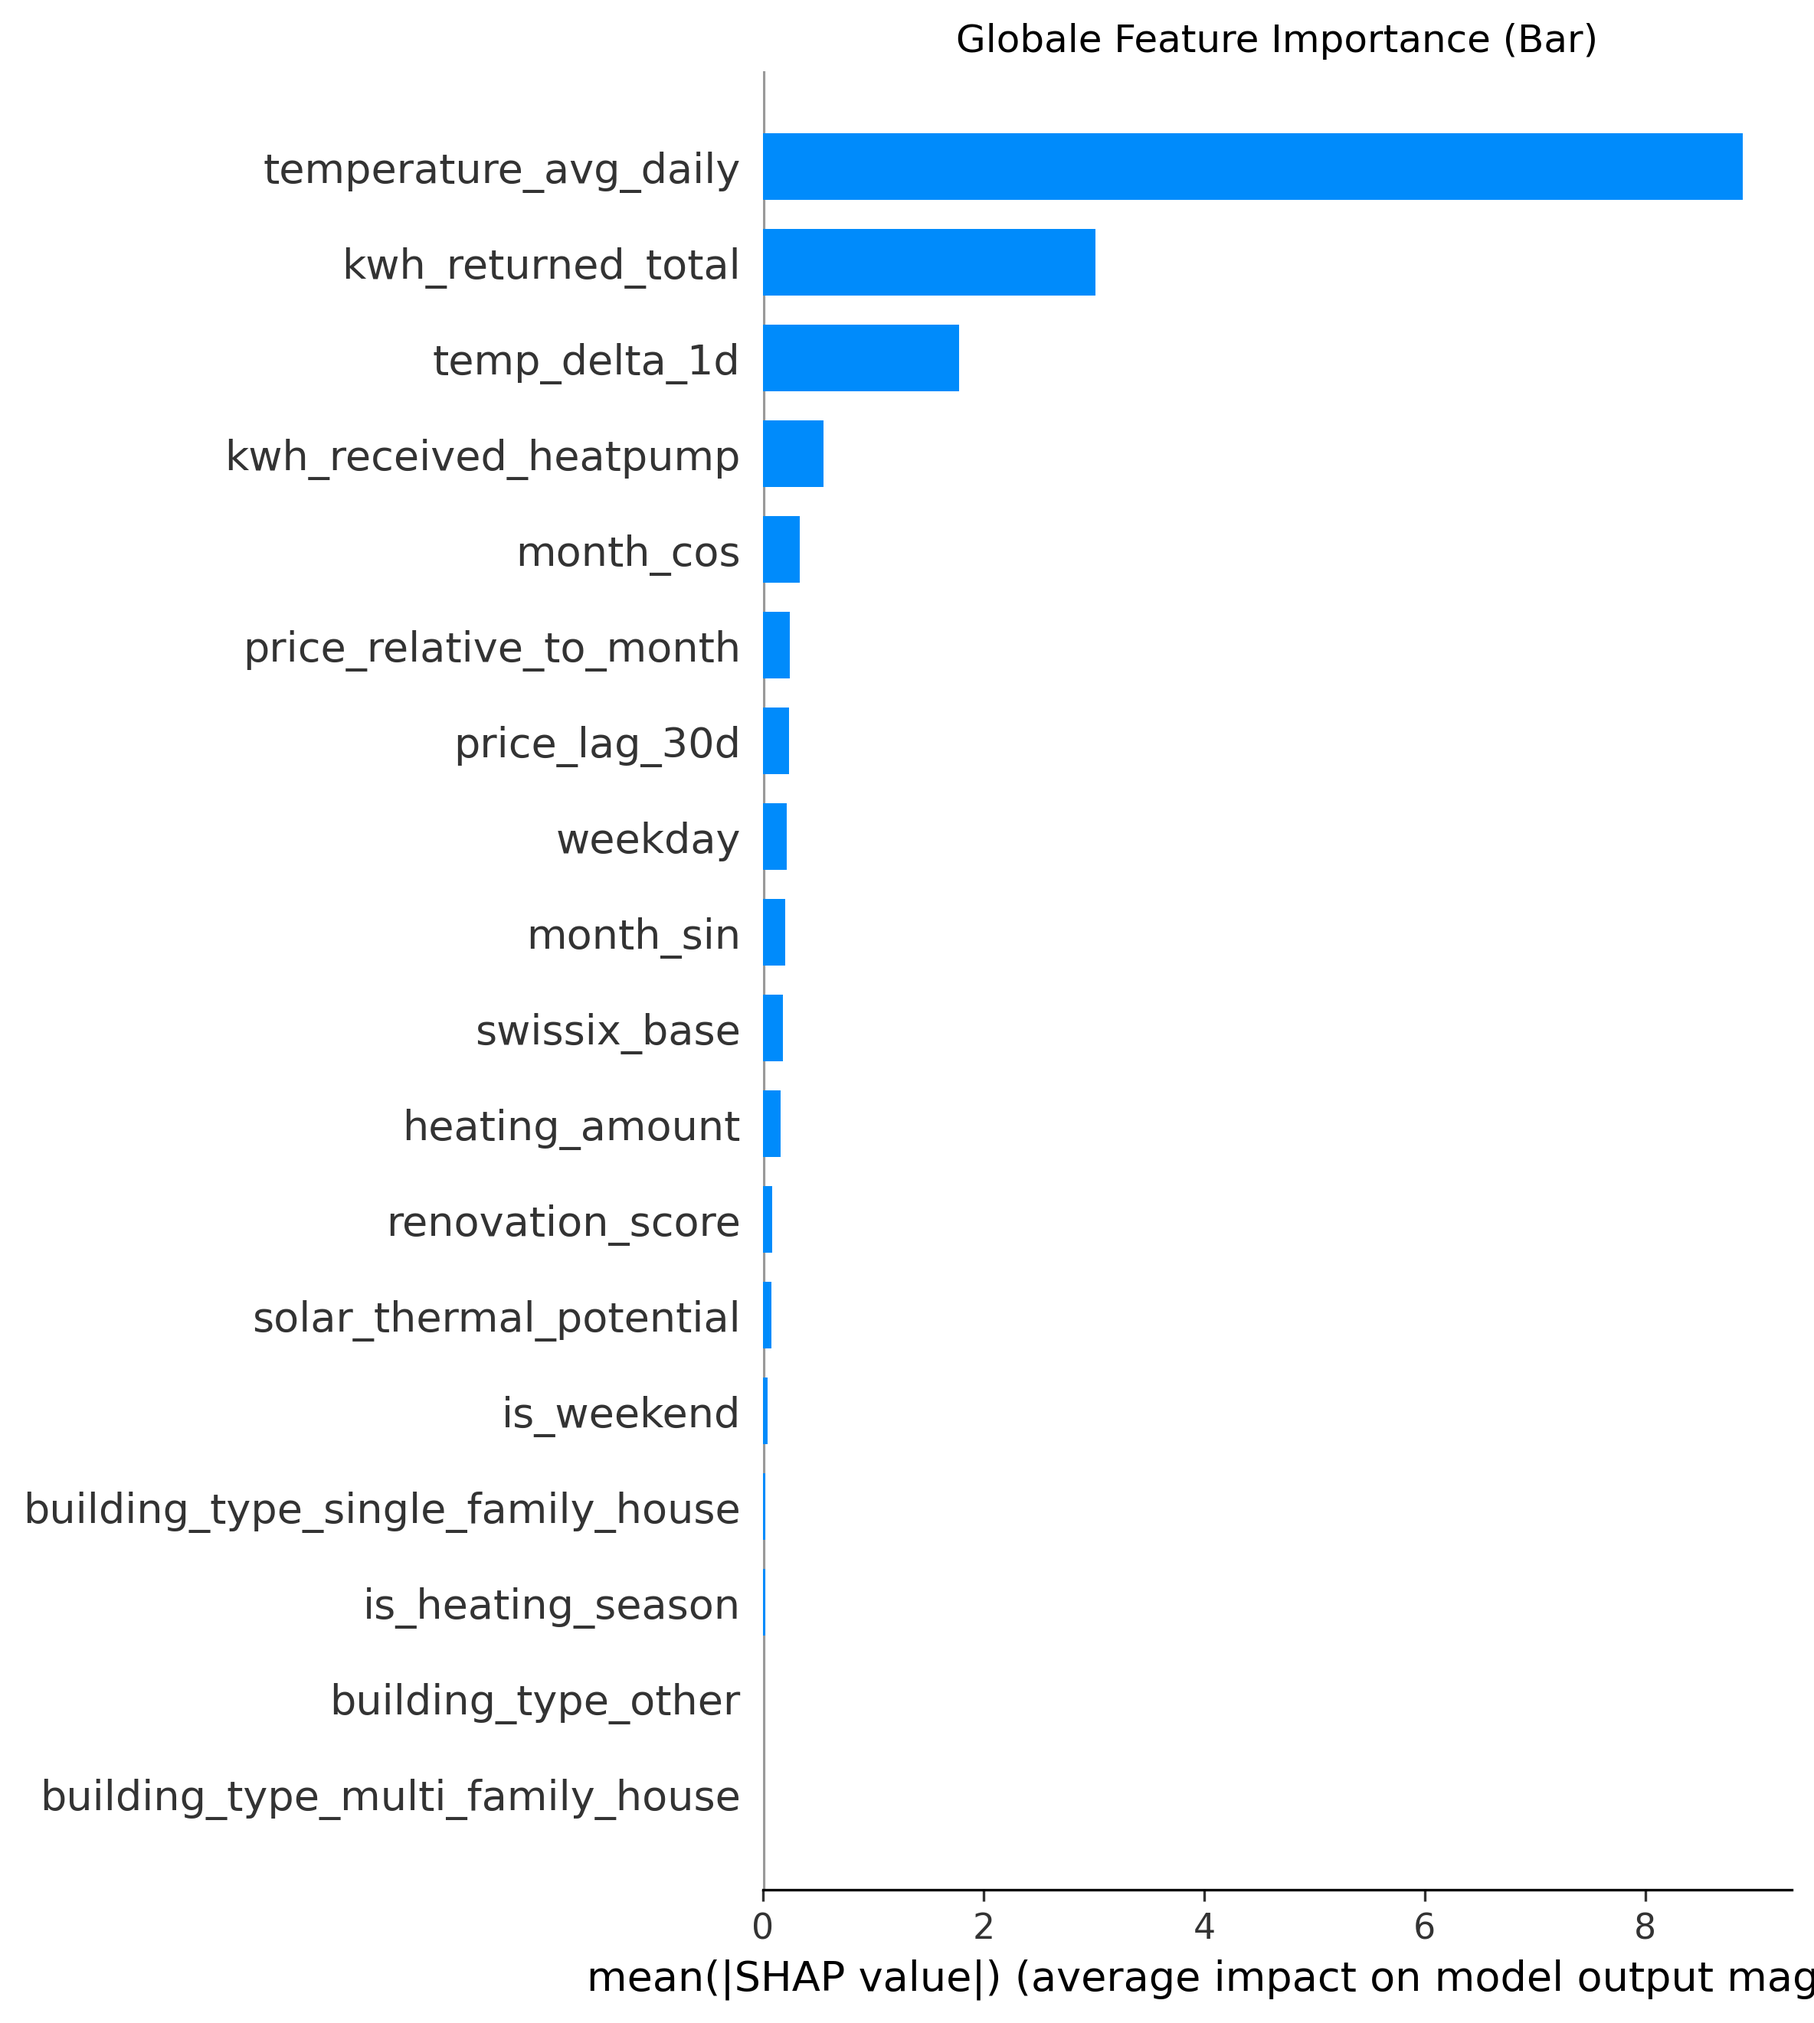
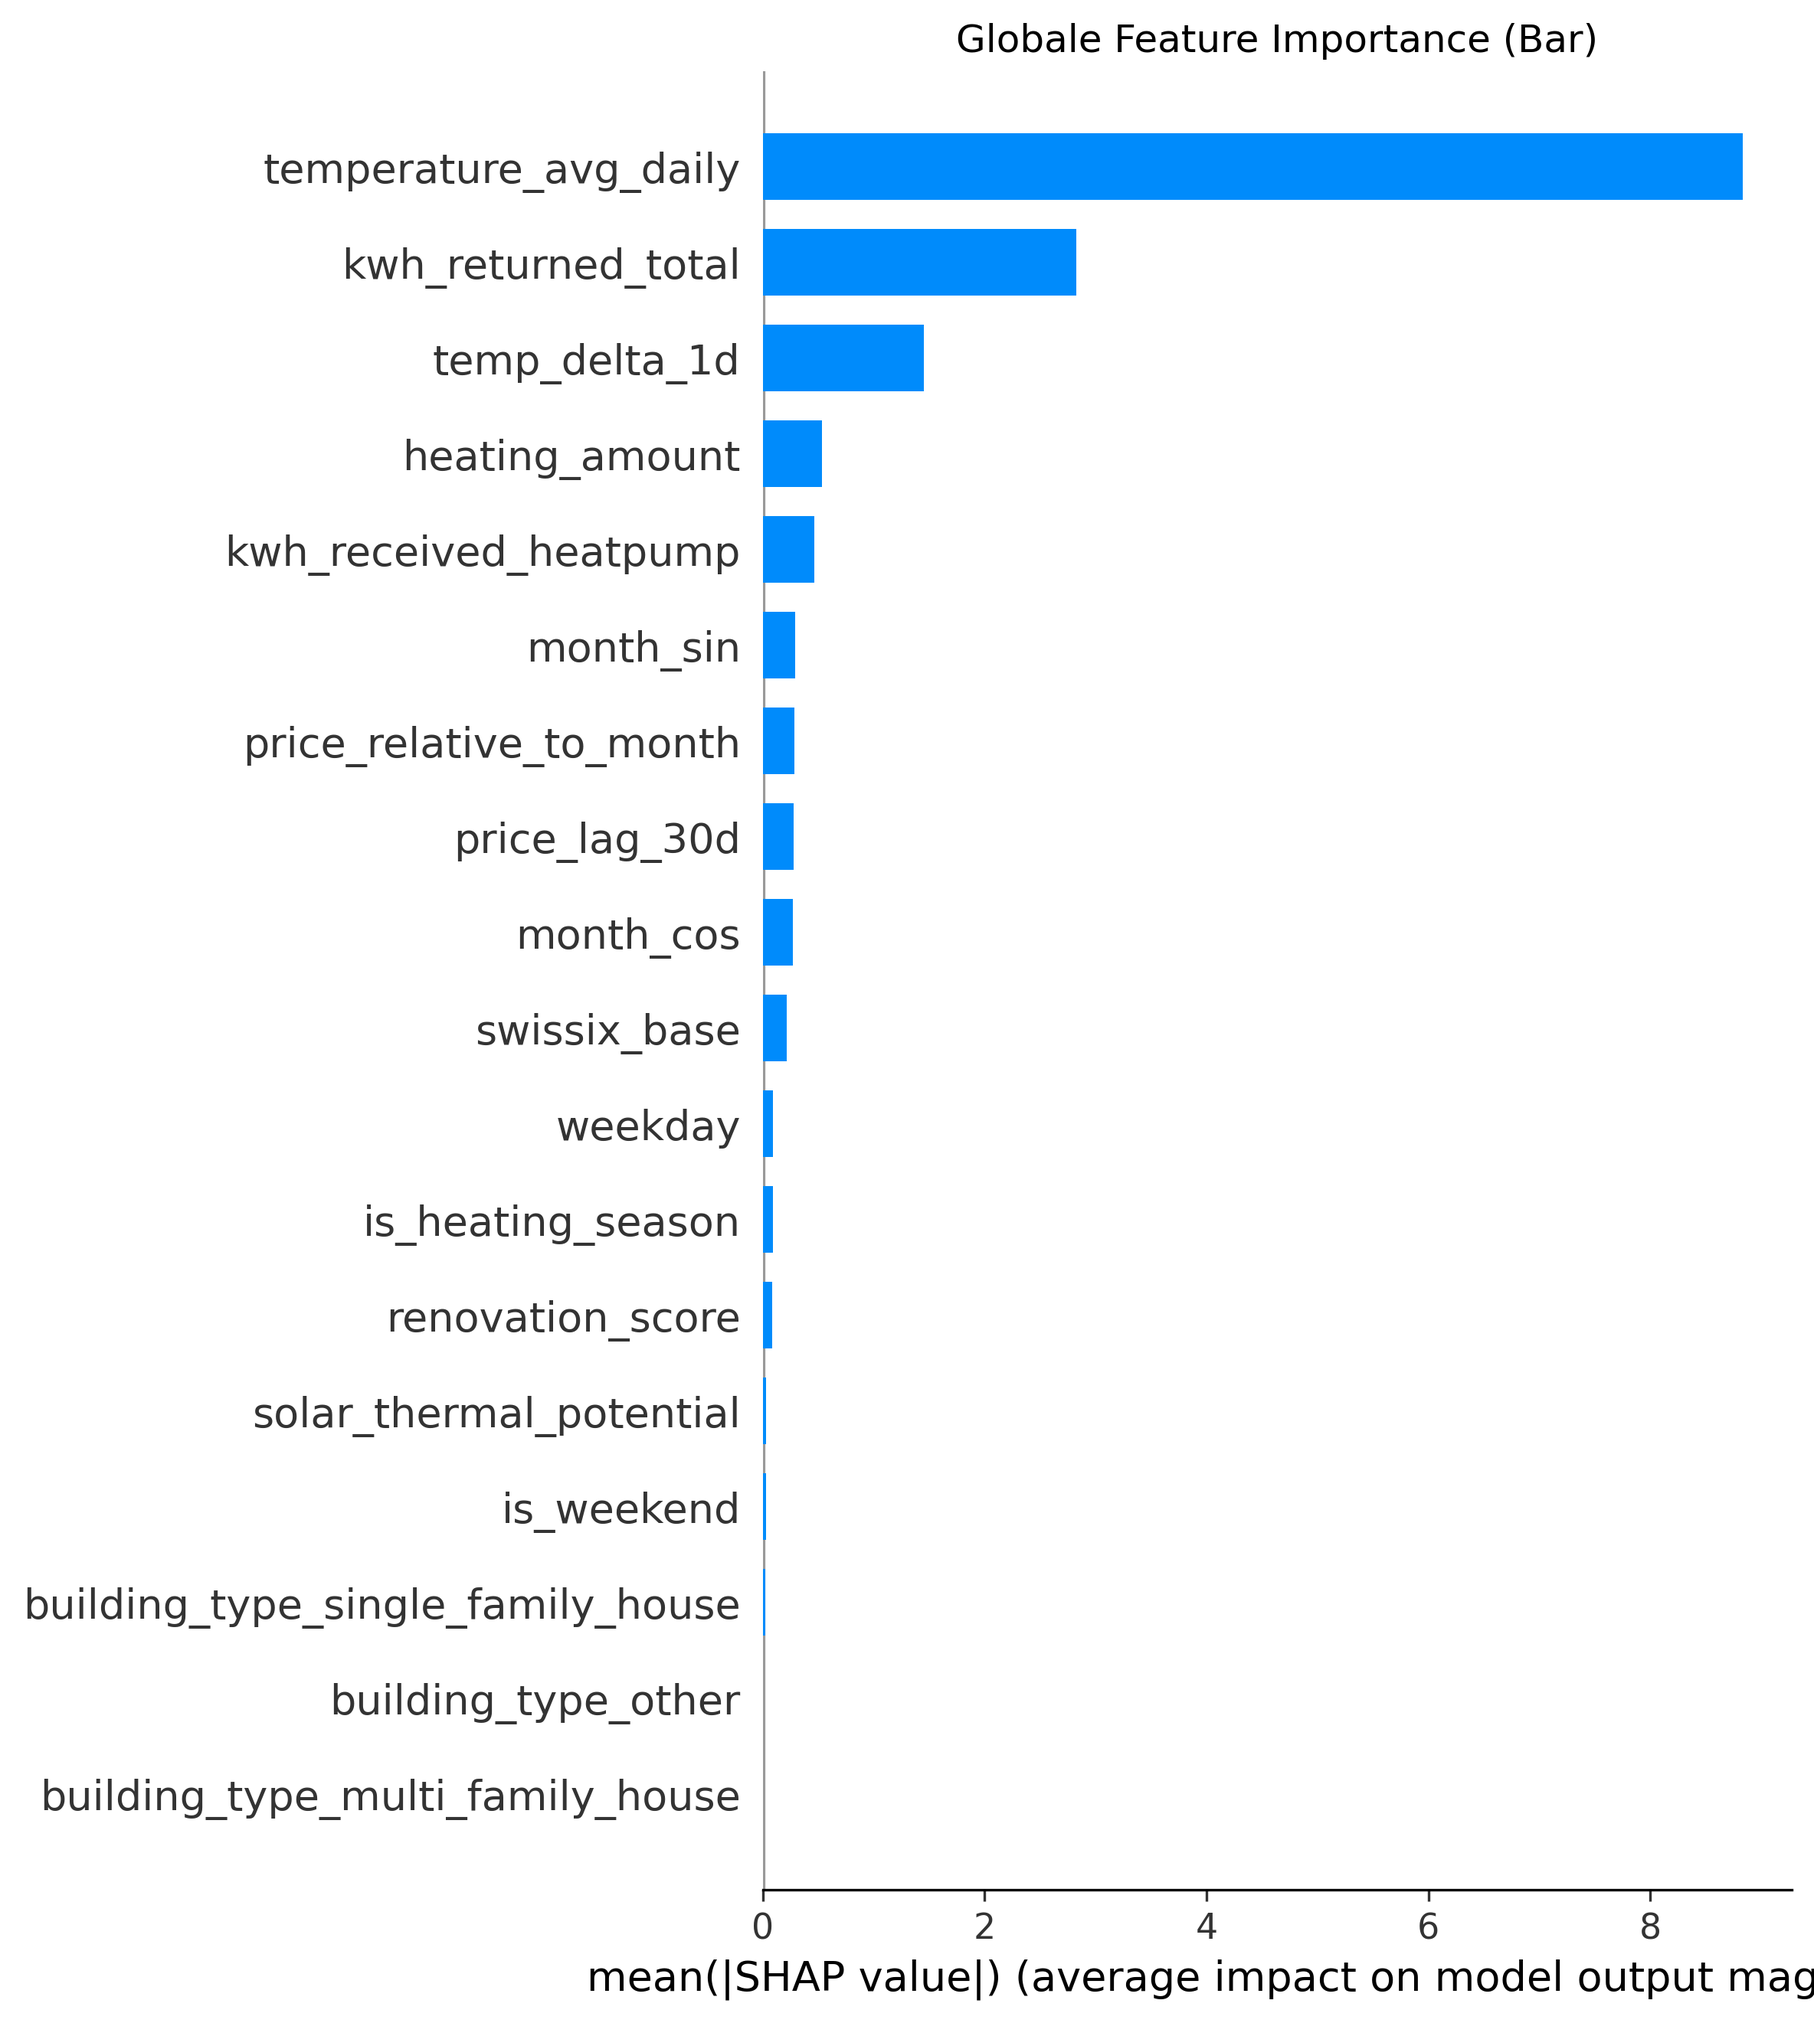
Feature Erstellung dokumentiert und Modell ausgewählt

diff --git a/03_src/app.py b/03_src/app.py
@@ -21,7 +21,7 @@ from config import (
     fill_median_list, fill_inter_list,
     fill_string_float, fill_string_boolean, 
     fill_string_integer, fill_unbekannt_list,
-    target_col, feature_cols
+    target_col, feature_cols, feature_cols_cleaned
 )
 from data_combine import join_data
 from data_loader import smartmeter_load, household_load, house_info_load, weather_load, load_price_data
@@ -92,7 +92,8 @@ data_combined_filled = (
     .pipe(apply_interpolation, fill_inter_list)
 )
 
-# Direkter CHeck in der Pipline on die Inputaiton erfolgreich war
+# ---  Direkter Check in der Pipline --- 
+
 compare_imputation(
     df_before=data_combined,
     df_after=data_combined_filled,
@@ -107,7 +108,7 @@ compare_imputation(
 )
 
 
-# Zwischenspeichern Raw-Combined
+# ---  Zwischenspeichern Raw-Combined --- Notwendig um Pipline Entwicklung zu beschleunigen
 output_path_temp = root_dir / "02_data" / "temp" / "combined_data.csv"
 output_path_temp.parent.mkdir(parents=True, exist_ok=True)
 data_combined_filled.write_csv(str(output_path_temp), separator=";")
@@ -180,21 +181,23 @@ feature_importance_analyse(
     filename="shap_plot.png"
 )
 
+#--Datensatz nach der Analyse reduzieren
+
+
+X_train_red, X_test_red, y_train_red, y_test_red = train_test_split(
+    df_ml, 
+    feature_cols=feature_cols_cleaned, 
+    target_col=target_col
+)
+
+#--- Korrelations-Check auf dem reduzierten Set
+X_train_final, X_test_final, final_features = correlated_features_drop(
+    X_train_red, 
+    X_test_red,
+    feautre_cols=feature_cols_cleaned
+)
+
+
 #---Modellvergleich um das beste Modell zu finden
 comparison = compare_models(X_train_cleaned, X_test_cleaned, y_train, y_test)
 print(comparison)
-
-#---Modell Tuning auf Basis des Output des Modellchecks
-
-best_rf = tune_random_forest(X_train_cleaned, y_train)
-tscv = TimeSeriesSplit(n_splits=5)
-scores = cross_val_score(best_rf, X_train_cleaned, y_train, cv=tscv, scoring='r2')
-print(f"CV R² Scores: {scores}")
-print(f"Mean CV R²: {scores.mean():.4f}")
-
-# ---Finale Validierung mit dem getunten Modell
-y_pred_final = best_rf.predict(X_test_cleaned)
-final_r2 = r2_score(y_test, y_pred_final)
-final_mae = mean_absolute_error(y_test, y_pred_final)
-
-plot_final_prediction(y_test, y_pred_final)

diff --git a/03_src/config.py b/03_src/config.py
@@ -117,6 +117,19 @@ feature_cols = [
     "temp_inertia_ema_3d", "temp_delta_1d", "month_sin", "month_cos"
 ]
 
+feature_cols_cleaned = [
+    "temperature_avg_daily",
+    "kwh_returned_total",
+    "temp_delta_1d",
+    "kwh_received_heatpump",
+    "price_lag_30d",
+    "price_relative_to_month",
+    "swissix_base",
+    "weekday",
+    "month_sin",
+    "month_cos"
+]
+
 class Schema(pa.DataFrameModel):
     # Hier müssen die echten Spaltennamen aus deinem Dataframe stehen:
     timestamp: pl.Datetime(time_unit="us", time_zone="UTC")

diff --git a/01_business_understanding/feature_enginering_doku.md b/01_business_understanding/feature_enginering_doku.md
@@ -1,0 +1,86 @@
+# 📚 Feature Engineering
+
+Diese Dokumentation beschreibt die Vorgehensweise beim Feature Engineering 
+
+## 📋 Feature Erstellung
+
+In der Pipeline werden mehrere Features für die Vorhersage des Energieverbrauchs generiert. Die Beschreibung der einzelnen Features folgt der Reihenfolge im features.py-File.
+
+Wochentage
+Auf Basis des Datums werden numerische Werte generiert, die die Wochentage abbilden. So erhält beispielsweise der Sonntag den Wert 7, der Samstag den Wert 6 usw.
+
+Wochenende
+Die Wochentage dienen als Grundlage, um einen Wochenend-Indikator zu erzeugen. Tage, die auf ein Wochenende fallen, erhalten den Wert 1, während Werktage den Wert 0 erhalten.
+
+Heizperiode
+Die Heizperiode in Mitteleuropa dauert typischerweise von Oktober bis März. Entsprechend wird ein Dummy-Feature erstellt, das in diesen Monaten den Wert 1 und in den übrigen Monaten den Wert 0 annimmt.
+
+Renovation Index
+Der Renovationsindex summiert mehrere Dummy-Variablen, die angeben, ob Renovierungen an bestimmten Gebäudeteilen (z. B. Fenster, Dach oder Wände) durchgeführt wurden.
+
+Heizbedarf
+Der Heizbedarf wird aus der beheizten Fläche und der Anzahl der Bewohner eines Gebäudes berechnet.
+
+Preisfeatures
+Auf Basis der Day-Ahead-Strompreise werden Lag-Features sowie gleitende Durchschnittswerte für 30 und 90 Tage berechnet. Zusätzlich werden Abweichungen des aktuellen Tagespreises von diesen Durchschnittswerten bestimmt.
+
+Solarpotenzial
+Das Potenzial zur Solarstromerzeugung wird durch die Multiplikation der PV-Anlagengröße mit der täglichen Sonnenscheindauer approximiert.
+
+Thermische Dynamik
+Um die thermische Trägheit von Gebäuden sowie kurzfristige Temperaturveränderungen abzubilden, werden zwei zusätzliche Temperaturfeatures berechnet:
+temp_inertia_ema_3d: ein exponentiell gewichteter gleitender Durchschnitt der Temperatur über drei Tage, der das thermische Gedächtnis eines Gebäudes approximiert.
+temp_delta_1d: die tägliche Veränderung der Durchschnittstemperatur im Vergleich zum Vortag.
+
+Zyklische Features
+Um saisonale Effekte besser abzubilden, werden zyklische Transformationen (Sinus und Cosinus) für Monatswerte berechnet.
+
+Gebäudetypen
+Für die Gebäudetypen werden Dummy-Variablen (One-Hot-Encoding) erstellt. Die Kategorie „Unbekannt“ dient dabei als Referenzkategorie und wird nicht explizit als Feature kodiert.
+
+Weitere verwendete Variablen
+
+Zusätzlich zu den erzeugten Features werden weitere Variablen direkt aus dem Datensatz verwendet. Dazu zählen:
+kwh_received_heatpump – Stromverbrauch der Wärmepumpe
+kwh_returned_total – Gesamtmenge des eingespeisten Stroms
+temperature_avg_daily – durchschnittliche Tagestemperatur
+swissix_base – Day-Ahead-Strompreis
+
+## 🛠 Feature Selektion, Importance und Validierung
+
+1. Korrelationen der Features 
+
+ **temp_inertia_ema_3d** weist eine hohe Korrelation mit anderen Variablen auf und kann somit als redundant betrachtet werden kann. Auf Grundlage dieser Analyse wurde das Feature aus dem Datensatz entfernt.
+
+Die Identifikation stark korrelierter Features erfolgt mithilfe der  **def correlated_features_drop**, die eine Korrelationsmatrix des Trainingsdatensatzes berechnet und Variablen entfernt, deren Korrelation einen Schwellenwert von **0.90** überschreitet.
+
+2. Importance und Validierung der Features
+
+![alt text](image.png)
+
+Um den Einfluss der Features zu analyiseren wird ein Random Forst mOdell als Basis verwendet, sodass die benötigen plots erzeugt werdne könnne. 
+So sieht man anhand des Importnace Plots recht deutlich, die wichgsten Features: 1. temperature_avg_daily, 2. kwh_returned_total, 3. temp_delta_1d
+
+Alle weiteren Features haben nur einen geringen Einfluss auf den Stromvebrauch.
+
+![alt text](image-1.png)
+
+Der Beeswarm-Plot ergänzt die globale Wichtigkeit um die Richtung und Stärke der Effekte. Beim Feature temperature_avg_daily zeigt sich ein deutliches Muster: Niedrige Temperaturen (blaue Punkte) führen zu stark positiven SHAP-Werten – die Kälte erhöht den Verbrauch erwartungsgemäß massiv.
+
+Für den heating_amount wird ersichtlich, dass der Gesamtverbrauch bei hohen Werten (rote Punkte) tendenziell steigt. Da die meisten Punkte jedoch auf der vertikalen Null-Linie liegen, hat das Feature für den Großteil der Daten keinen Einfluss auf die Vorhersage. Dies ist auf die identifizierten der Missing-Werte zurückzuführen, wodurch das Feature in seiner aktuellen Form für das Modell kaum Informationsgehalt bietet.
+
+Features die einen kleinen aber erwartebaren Effekt haben sind folgede:
+kwh_received_heatpump – kleiner aber plausibler Effekt, behalten
+price_lag_30d & price_relative_to_month – Preissignale mit minimalem Effekt, können bleiben wenn inhaltlich relevant
+month_sin & month_cos – zyklische Monatskodierung, sinnvoll aber schwacher Effekt
+is_heating_season – stark mit Temperatur korreliert, möglicherweise redundant
+
+Auf Basis der Importance Analyse werden folgende Feature entfernt: 
+heating_amount: Featee nicht sinnvoll intepretierbat
+Dummys für Haustypen: SHAP = 0 -> Kein Beitrag
+solar_thermal_potential: Keine Varianz im Beeswarm, grau = kein Effekt
+is_weekend: Minimaler Effekt, kaum relevant
+renovation_score: Fast kein Einfluss
+is_heating_seaso: Redundant zu temperature_avg_daily
+
+Die F
